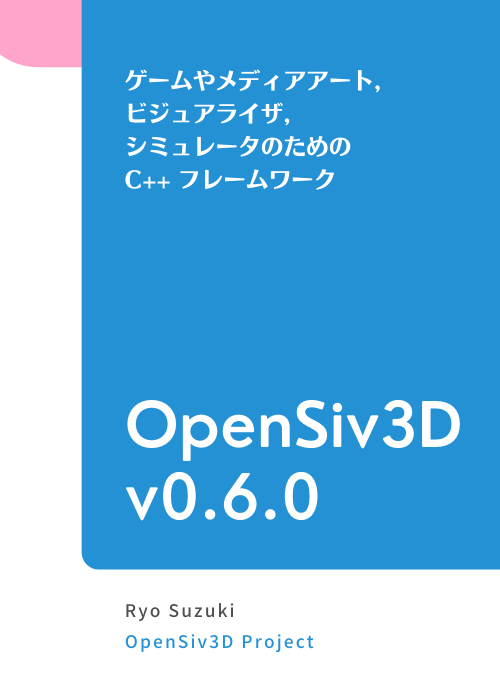
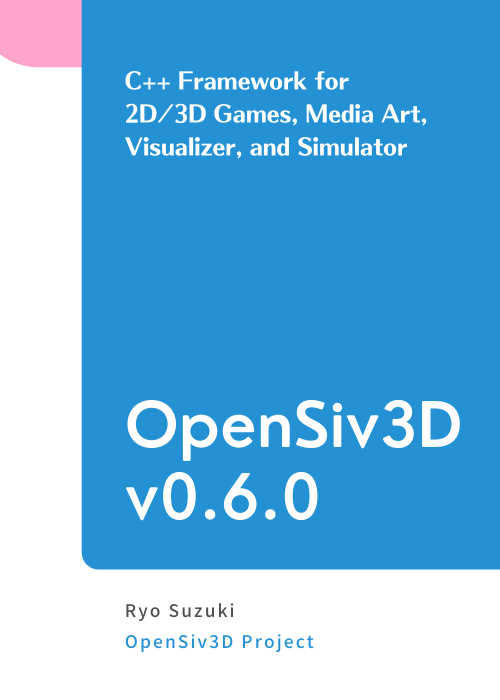
update

Changed region(s): [[0.24, 0.09, 0.84, 0.27]]

diff --git a/books/siv3d-documentation-en/setup.md b/books/siv3d-documentation-en/setup.md
@@ -1,5 +1,5 @@
 ---
-title: "開発を始める（SDK のインストール）"
+title: "Getting Started (Installing Siv3D SDK)"
 free: true
 ---
 

diff --git a/books/siv3d-documentation-en/requirements.md b/books/siv3d-documentation-en/requirements.md
@@ -1,5 +1,5 @@
 ---
-title: "開発に必要な環境、動作に必要な環境"
+title: "System Requirements"
 free: true
 ---
 

diff --git a/books/siv3d-documentation-en/introduction.md b/books/siv3d-documentation-en/introduction.md
@@ -1,5 +1,5 @@
 ---
-title: "イントロダクション"
+title: "Introduction"
 free: true
 ---
 
